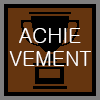
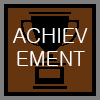
button hovers added on screenScoreBoard.js

Changed region(s): [[0.12, 0.27, 0.9, 0.45], [0.09, 0.51, 0.81, 0.66], [0.84, 0.51, 0.93, 0.66]]

diff --git a/game/scripts/screenScoreboard.js b/game/scripts/screenScoreboard.js
@@ -52,7 +52,10 @@ function drawScoreboard(){
 			setState(0);
 			console.log("Level: " + currentLevel)
 			tutorialImageNum = 1;
-		}, null, function() {});
+		}, null,
+			function() {
+				mainMenuButtonImage.src = "images/mainMenuButton2.png";
+			});	
 		
 	// left button: achievements
 	ctx.drawImage(achievementsButtonImage, achievementX, buttonY, buttonWidth, buttonHeight);
@@ -63,7 +66,10 @@ function drawScoreboard(){
 			console.log("Level: " + currentLevel)
 			console.log("Score: " + finalScore)
 			console.log("EasterEggClick: " + easterEggclick)
-		}, null, function() {});
+		}, null,
+			function() {
+				achievementsButtonImage.src = "images/achievementsButton2.png";
+			});	
 		
 
 
